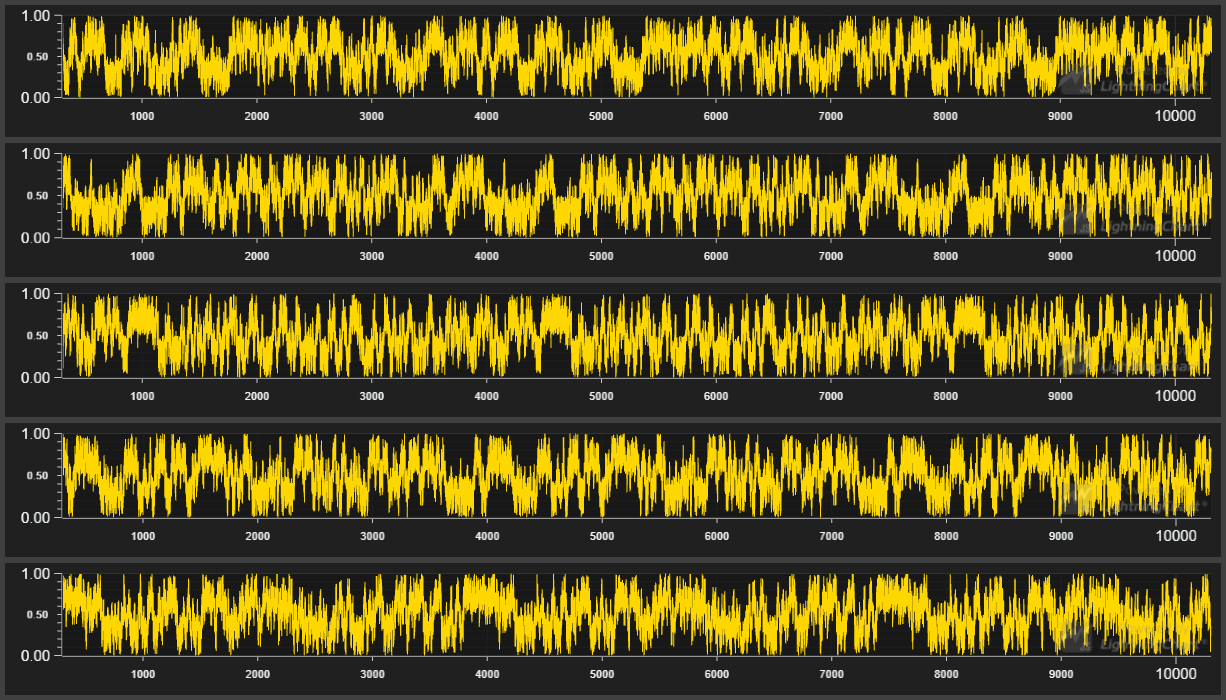
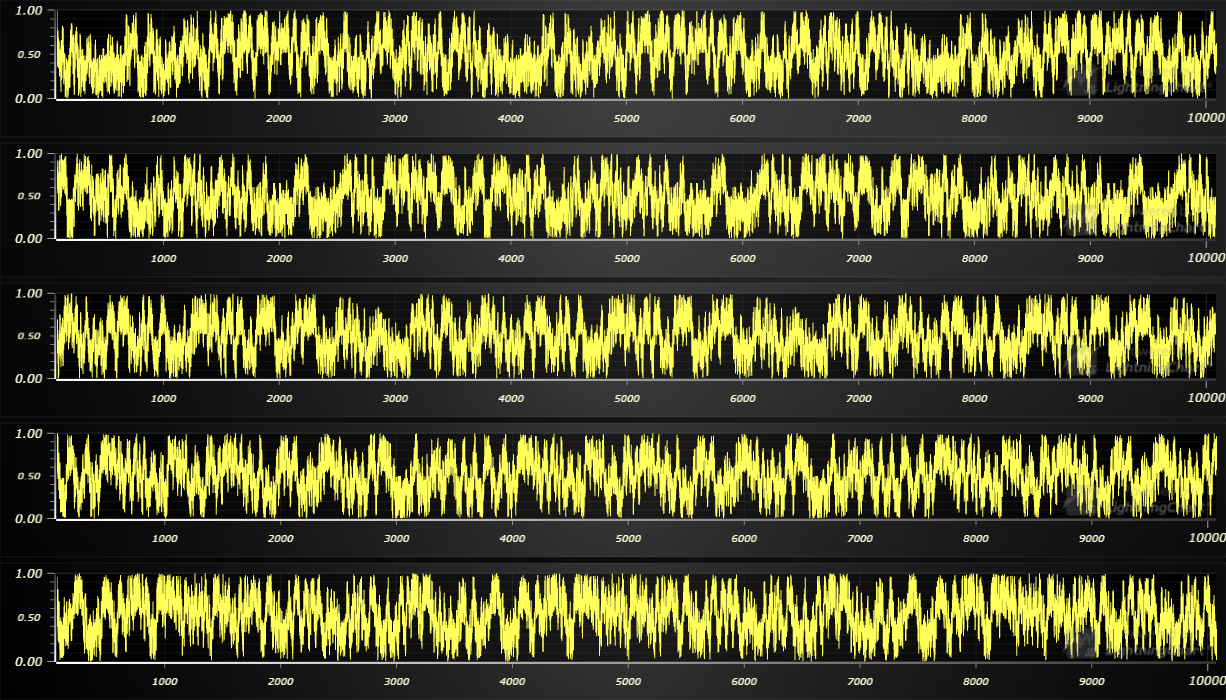
Update LCJS version

diff --git a/webpack.config.js b/webpack.config.js
@@ -69,7 +69,8 @@ module.exports = {
         }),
         new CopyWebpackPlugin({
             patterns: [
-                { from: './assets/**/*', to: './examples/assets', flatten: true, noErrorOnMissing: true }
+                { from: './assets/**/*', to: './examples/assets', flatten: true, noErrorOnMissing: true },
+                { from: './node_modules/@arction/lcjs/dist/resources', to: 'resources', noErrorOnMissing: true },
             ]
         })
     ]

diff --git a/src/index.js b/src/index.js
@@ -22,7 +22,7 @@ const channelCount = channels.length
 
 // Create Dashboard.
 const grid = lightningChart().Dashboard({
-    // theme: Themes.dark 
+    // theme: Themes.darkGold 
     numberOfRows: channelCount,
     numberOfColumns: 1
 })

diff --git a/README.md b/README.md
@@ -60,10 +60,10 @@ Direct developer email support can be purchased through a [Support Plan][4] or b
 © Arction Ltd 2009-2020. All rights reserved.
 
 
-[Dashboard]: https://www.arction.com/lightningchart-js-api-documentation/v3.0.1/classes/dashboard.html
-[XY cartesian chart]: https://www.arction.com/lightningchart-js-api-documentation/v3.0.1/classes/chartxy.html
-[Axis]: https://www.arction.com/lightningchart-js-api-documentation/v3.0.1/classes/axis.html
-[Line series]: https://www.arction.com/lightningchart-js-api-documentation/v3.0.1/classes/lineseries.html
-[Data patterns]: https://www.arction.com/lightningchart-js-api-documentation/v3.0.1/interfaces/datapattern.html
-[Solid LineStyle]: https://www.arction.com/lightningchart-js-api-documentation/v3.0.1/classes/solidline.html
+[Dashboard]: https://www.arction.com/lightningchart-js-api-documentation/v3.1.0/classes/dashboard.html
+[XY cartesian chart]: https://www.arction.com/lightningchart-js-api-documentation/v3.1.0/classes/chartxy.html
+[Axis]: https://www.arction.com/lightningchart-js-api-documentation/v3.1.0/classes/axis.html
+[Line series]: https://www.arction.com/lightningchart-js-api-documentation/v3.1.0/classes/lineseries.html
+[Data patterns]: https://www.arction.com/lightningchart-js-api-documentation/v3.1.0/interfaces/datapattern.html
+[Solid LineStyle]: https://www.arction.com/lightningchart-js-api-documentation/v3.1.0/classes/solidline.html
 
